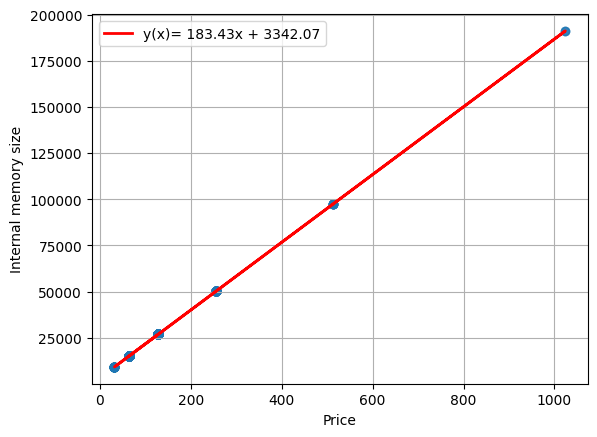
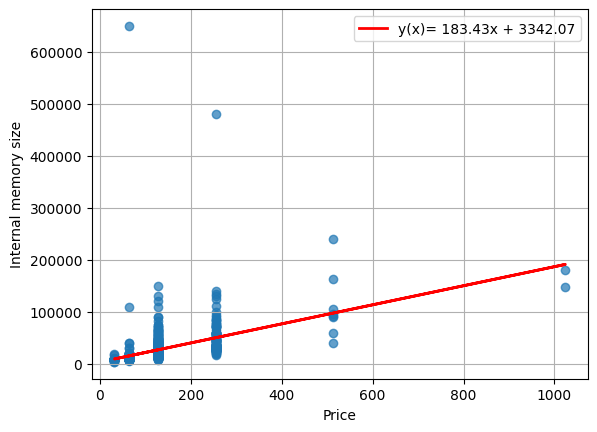
Repaired pr4_2

diff --git a/pr4/pr4_2/main.py b/pr4/pr4_2/main.py
@@ -75,7 +75,7 @@ if __name__ == '__main__':
     y_func = a * x + b
 
     plt.plot(x, y_func, linewidth=2, color="r", label=f"y(x)= {a:.2f}x + {b:.2f}")
-    plt.scatter(x, y_func, alpha=0.7)
+    plt.scatter(x, y, alpha=0.7)
     plt.grid()
     plt.xlabel("Price")
     plt.ylabel("Internal memory size")
